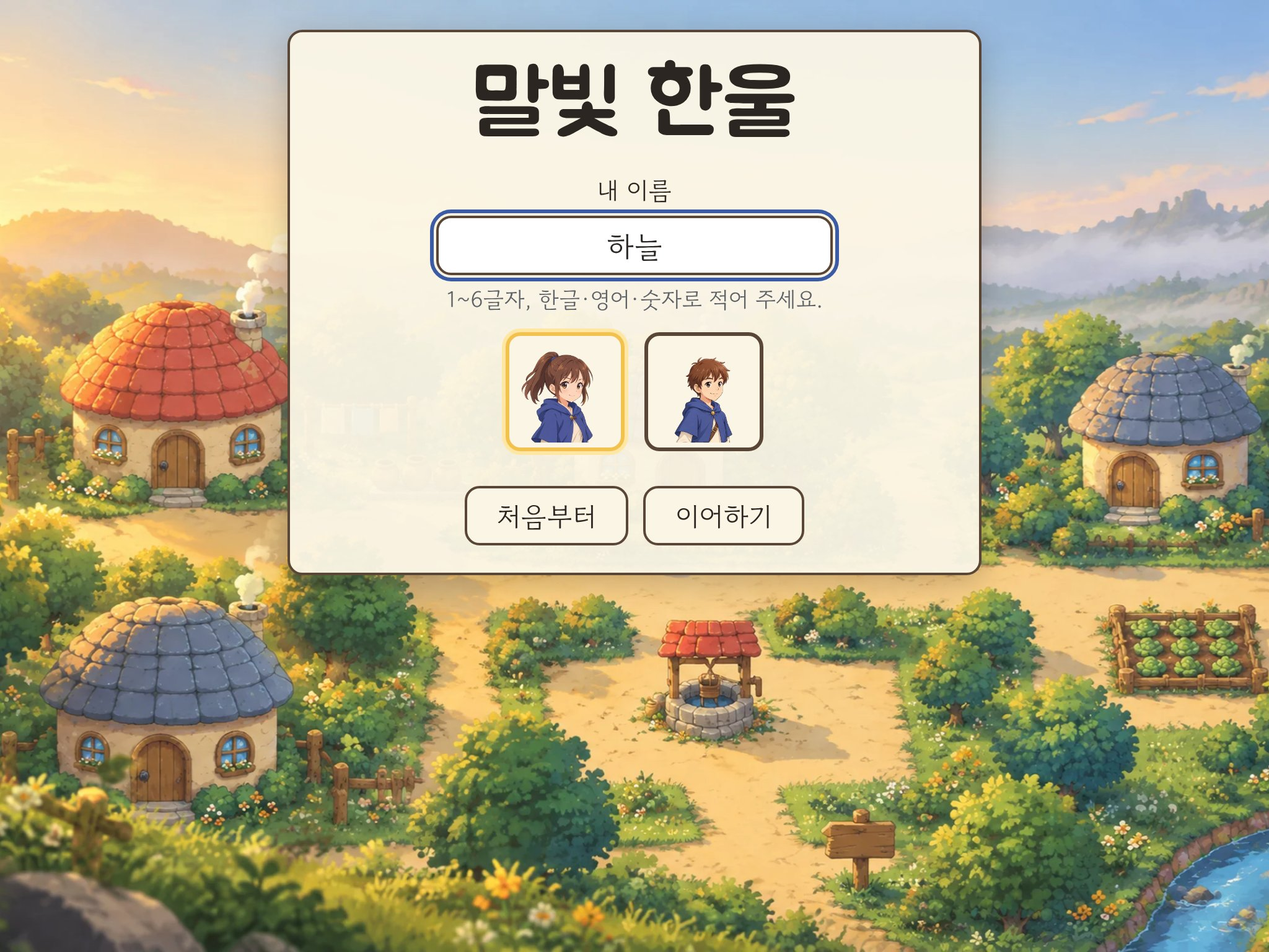
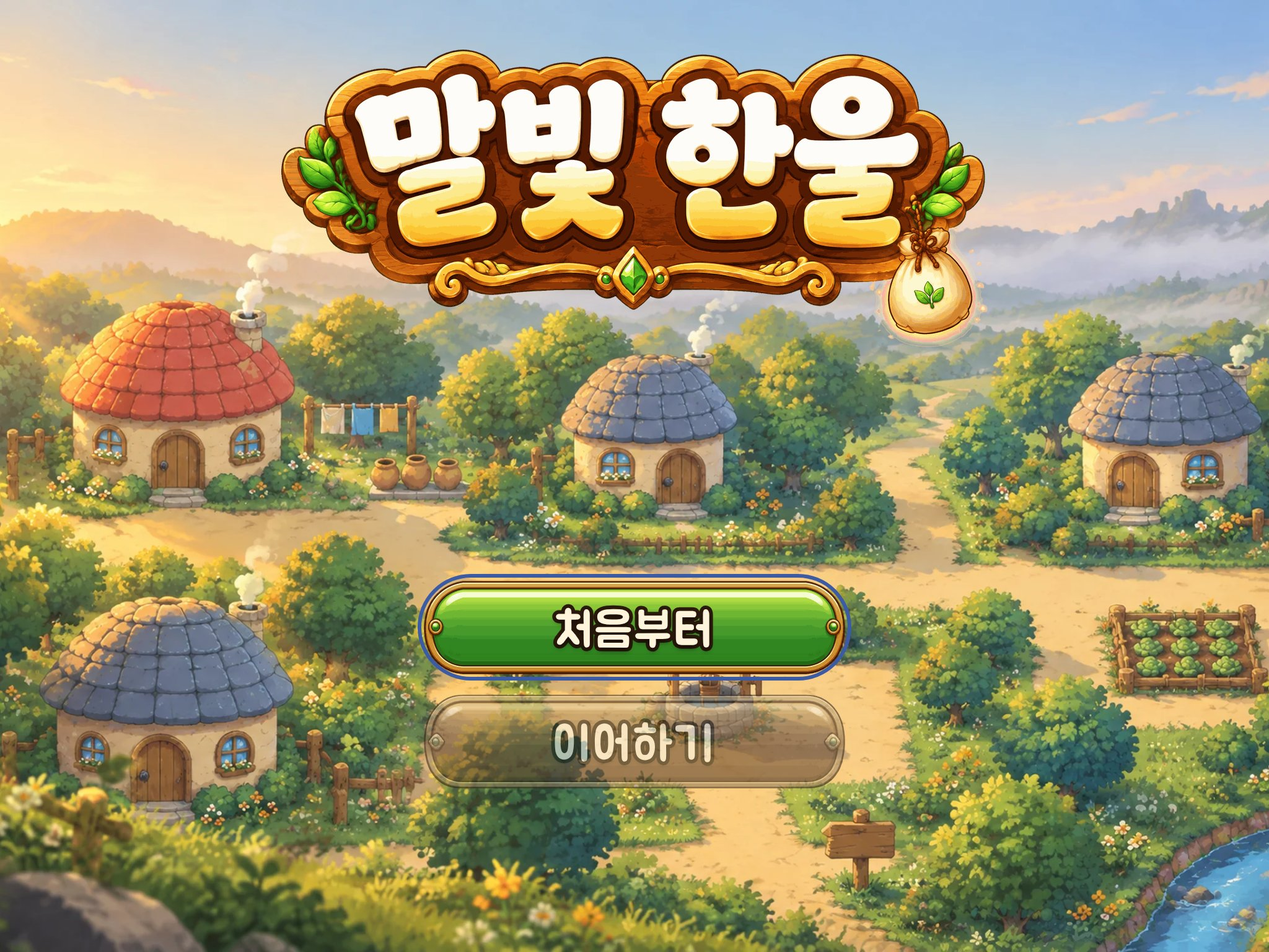
docs: act 1 screenshots with the new UI (1366x768, 1024x768@2x)
Claude-Session: https://claude.ai/code/session_017WoqJ7PBE5F4GzxWdiYF3d

diff --git a/design/art/ui-concepts/README.md b/design/art/ui-concepts/README.md
@@ -204,3 +204,4 @@
 2. 아트 바이블 3·4·7·8절을 위 표대로 고친다.
 3. 틀·버튼·아이콘·로고를 따로 투명 그림으로 만들고, 9조각 시트를 스크립트로 맞춘다.
 4. CSS 토큰과 틀 클래스를 만들고 타이틀 → 탐험 → 대화 → 전투 순서로 바꾼다. 화면마다 1366×768과 1024×768 스크린숏을 다시 찍어 비교한다.
+5. 구현 완료(2026-11-04): UI 키트·타이틀·탐험·대화·전투와 플레이 안내까지 반영했고, 1막 화면 사진을 `docs/screenshots/act1/`에 새로 찍었다.
